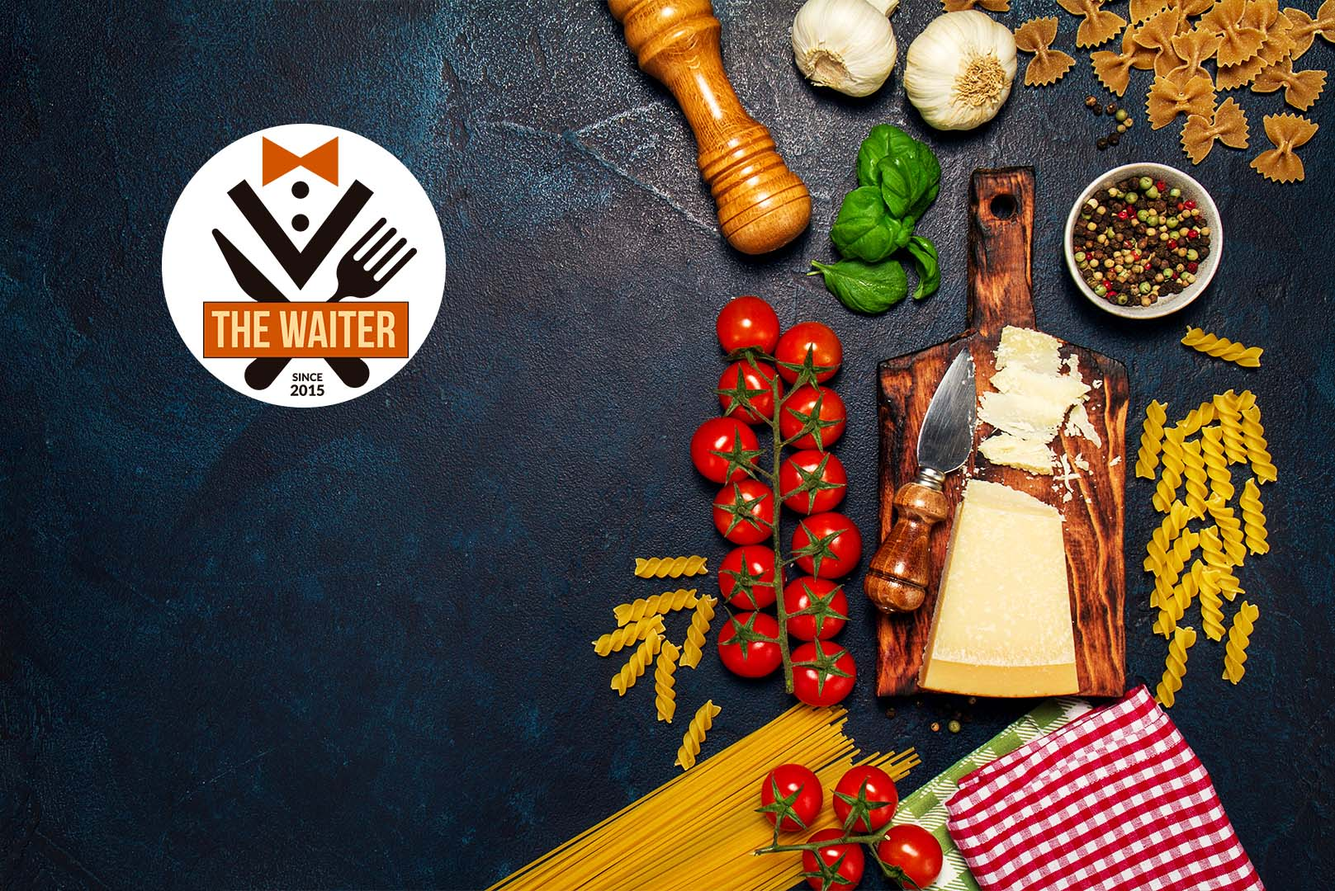
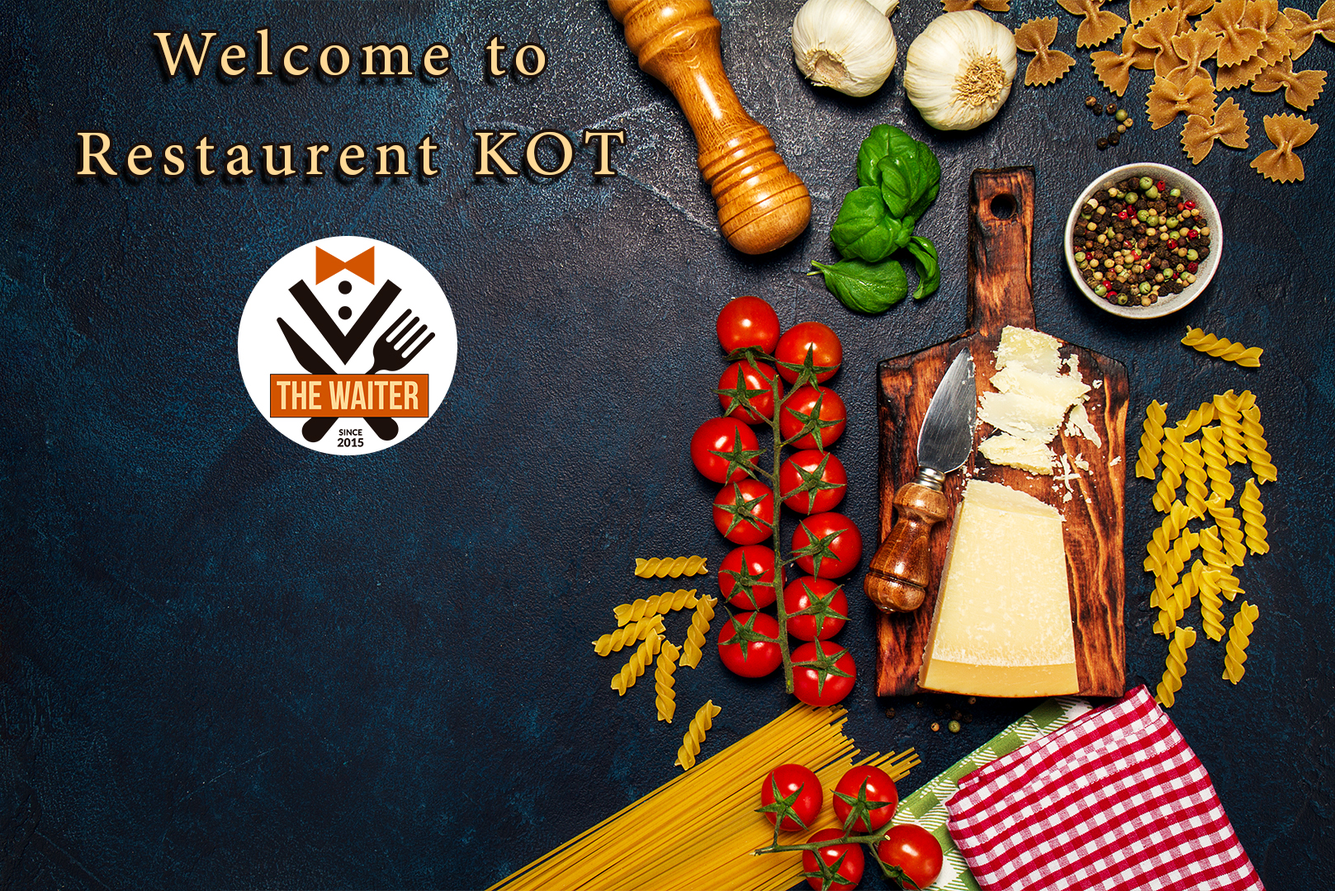
Login form Size Fixed Not resizable
Login form Size Fixed Not re-sizable

diff --git a/restaurant-kot/src/views/LoginForm.java b/restaurant-kot/src/views/LoginForm.java
@@ -53,13 +53,13 @@ public class LoginForm extends JFrame implements ActionListener {
     public void setLocationAndSize() {
         
         
-        userLabel.setBounds(150, 250, 100, 30);
-        passwordLabel.setBounds(150, 320, 100, 30);
-        userTextField.setBounds(250, 250, 150, 30);
-        passwordField.setBounds(250, 320, 150, 30);
-        showPassword.setBounds(250, 350, 150, 30);
-        loginButton.setBounds(150, 400, 100, 30);
-        resetButton.setBounds(300, 400, 100, 30);
+        userLabel.setBounds(150, 400, 100, 30);
+        passwordLabel.setBounds(150, 470, 100, 30);
+        userTextField.setBounds(250, 400, 150, 30);
+        passwordField.setBounds(250, 470, 150, 30);
+        showPassword.setBounds(250, 500, 150, 30);
+        loginButton.setBounds(150, 550, 100, 30);
+        resetButton.setBounds(300, 550, 100, 30);
         
       
         

diff --git a/restaurant-kot/src/views/Login.java b/restaurant-kot/src/views/Login.java
@@ -33,11 +33,12 @@ public class Login {
         
         
         LoginForm frame = new LoginForm();
-        frame.setTitle("Login Form");
+        frame.setTitle("Restaurent-KOT - LogIn");
         frame.setVisible(true);
-        frame.setBounds(10, 10, 370, 600);
+        frame.setBounds(10, 10, 1078, 720);
         frame.setDefaultCloseOperation(JFrame.EXIT_ON_CLOSE);
-        frame.setResizable(true);
+        frame.setResizable(false);
+        
 
     }
 }
